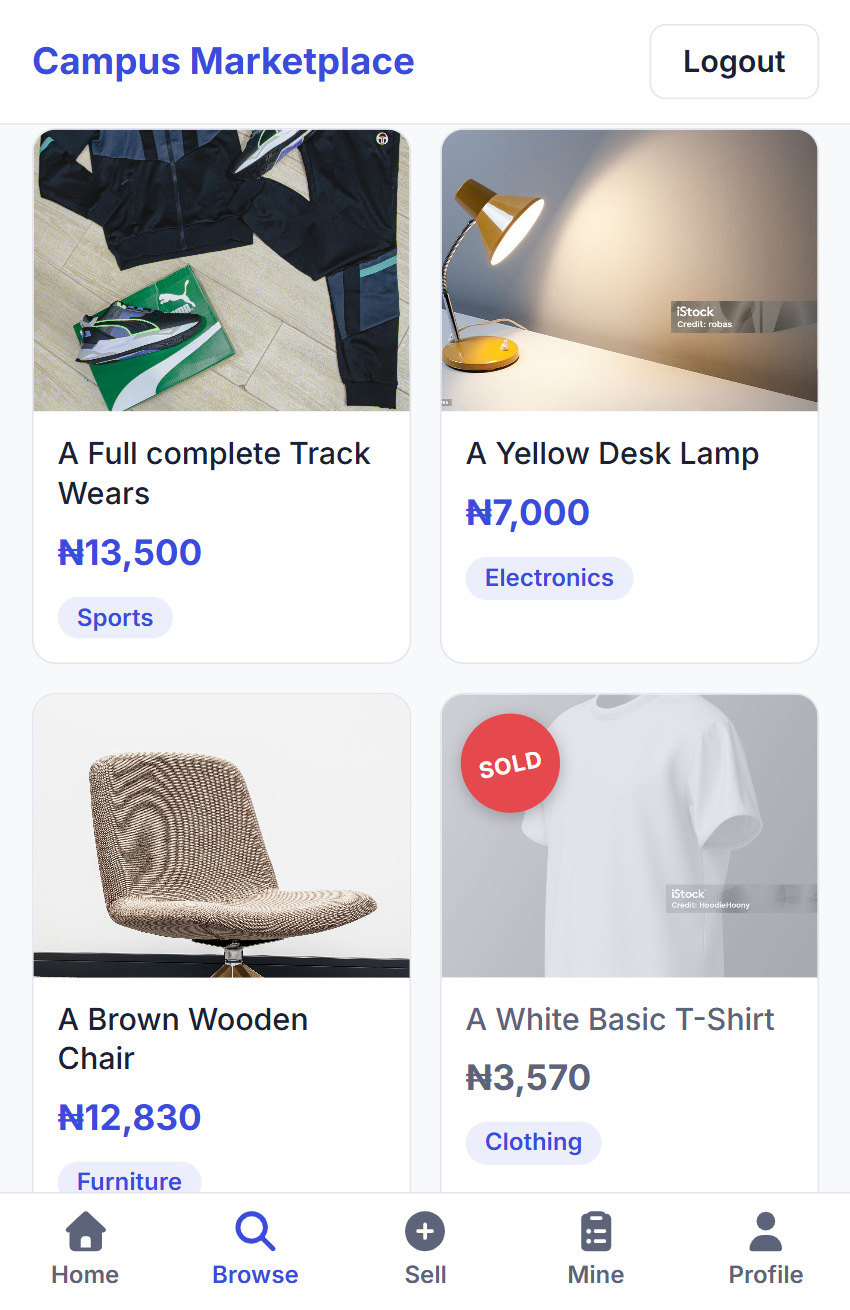
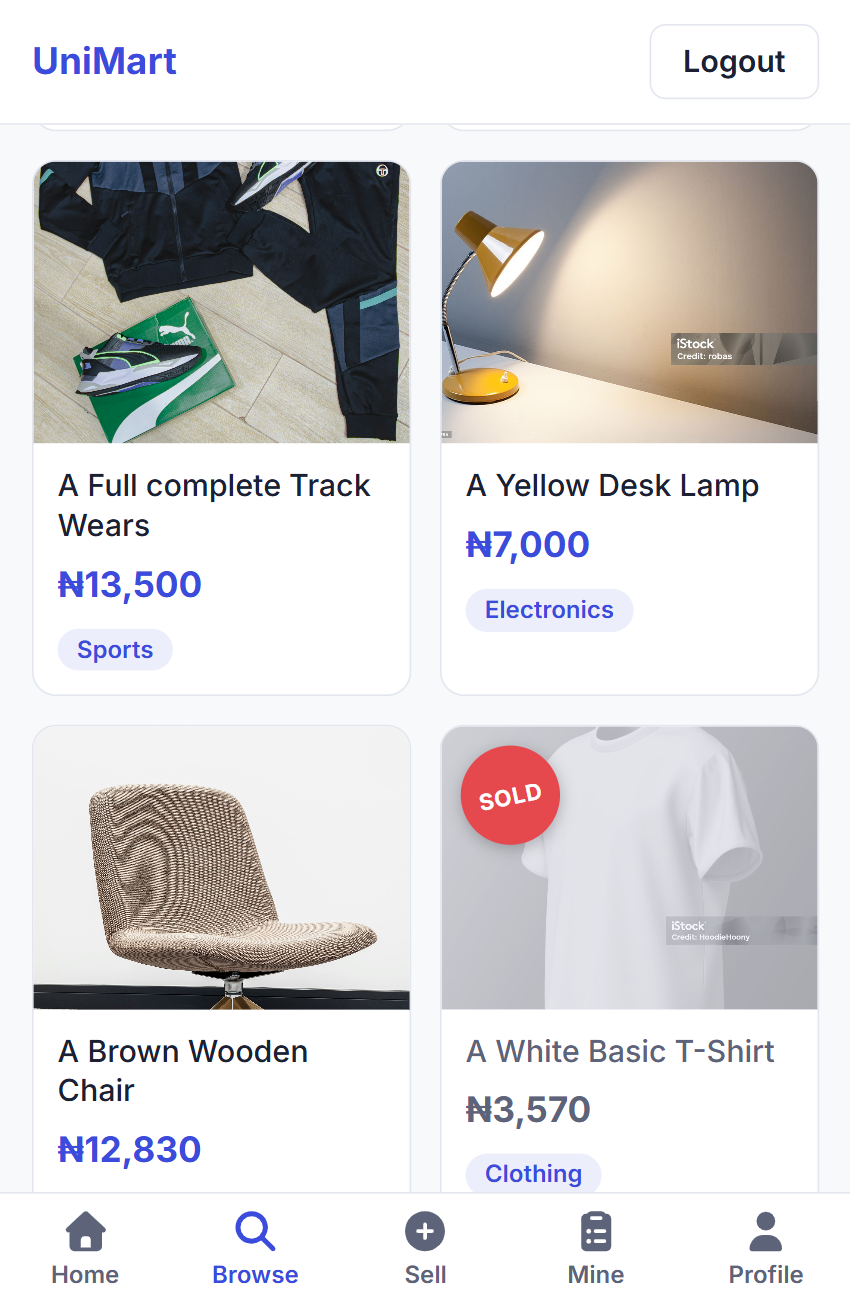
Rename the app to unimart

diff --git a/frontend/index.html b/frontend/index.html
@@ -6,7 +6,7 @@
     <meta name="viewport" content="width=device-width, initial-scale=1.0" />
     <meta name="theme-color" content="#3b4bdb" />
 
-    <title>Campus Marketplace | Buy and sell on campus</title>
+    <title>UniMart | Buy and sell on campus</title>
     <meta
       name="description"
       content="Buy and sell textbooks, gadgets, clothes and more with students at your university. Chat with sellers on WhatsApp."
@@ -14,8 +14,8 @@
 
     <!-- Link previews (WhatsApp, Facebook, X) -->
     <meta property="og:type" content="website" />
-    <meta property="og:site_name" content="Campus Marketplace" />
-    <meta property="og:title" content="Campus Marketplace: buy and sell on campus" />
+    <meta property="og:site_name" content="UniMart" />
+    <meta property="og:title" content="UniMart: buy and sell on campus" />
     <meta
       property="og:description"
       content="Find textbooks, gadgets and more from students at your university, and chat with sellers on WhatsApp."

diff --git a/frontend/src/pages/ListingDetail.jsx b/frontend/src/pages/ListingDetail.jsx
@@ -63,7 +63,7 @@ export default function ListingDetail() {
   // WhatsApp link
   const whatsappLink = phoneDigits
     ? `https://wa.me/${phoneDigits}?text=${encodeURIComponent(
-        `Hi, I'm interested in your "${listing?.title}" listed for ${formatPrice(listing?.price)} on Campus Marketplace.`
+        `Hi, I'm interested in your "${listing?.title}" listed for ${formatPrice(listing?.price)} on UniMart.`
       )}`
     : null
 

diff --git a/frontend/src/pages/Terms.jsx b/frontend/src/pages/Terms.jsx
@@ -5,7 +5,7 @@ export default function Terms() {
       <p className="doc-date">Last updated: October 2026</p>
 
       <p>
-        Campus Marketplace helps students buy and sell items with each other. By creating an
+        UniMart helps students buy and sell items with each other. By creating an
         account or using the site, you agree to these terms.
       </p>
 

diff --git a/frontend/src/pages/Privacy.jsx b/frontend/src/pages/Privacy.jsx
@@ -4,7 +4,7 @@ export default function Privacy() {
       <h1>Privacy</h1>
       <p className="doc-date">Last updated: October 2026</p>
 
-      <p>This page explains what Campus Marketplace keeps about you and who can see it.</p>
+      <p>This page explains what UniMart keeps about you and who can see it.</p>
 
       <h2>What we keep</h2>
       <ul>

diff --git a/frontend/src/components/Navbar.jsx b/frontend/src/components/Navbar.jsx
@@ -22,7 +22,7 @@ export default function Navbar() {
     <>
       {/* Top bar */}
       <nav>
-        <Link to="/">Campus Marketplace</Link>
+        <Link to="/">UniMart</Link>
 
         <span className="nav-links">
           <NavLink to="/" end>

diff --git a/backend/routes/__init__.py b/backend/routes/__init__.py
@@ -1,4 +1,4 @@
-"""Route registration for the Campus Marketplace API.
+"""Route registration for the UniMart API.
 
 Each route module defines its own Blueprint as ``bp``. Blueprints are
 registered here under a shared ``/api/v1`` prefix.

diff --git a/backend/models.py b/backend/models.py
@@ -1,4 +1,4 @@
-"""SQLAlchemy models for the Campus Marketplace MVP.
+"""SQLAlchemy models for the UniMart MVP.
 
 Notes approved in plan:
 - users.phone required (international format, app validates)

diff --git a/README.md b/README.md
@@ -1,4 +1,4 @@
-# Campus Marketplace
+# UniMart
 
 A web app where university students buy and sell items (textbooks, gadgets, clothes, furniture) with each other. Buyers contact sellers directly on WhatsApp, so there is no chat system to build or run.
 

diff --git a/CLAUDE.md b/CLAUDE.md
@@ -1,4 +1,4 @@
-# Campus Marketplace
+# UniMart
 
 Web app where students buy and sell items (textbooks, gadgets, clothes) within a university. Buyers contact sellers on WhatsApp.
 
